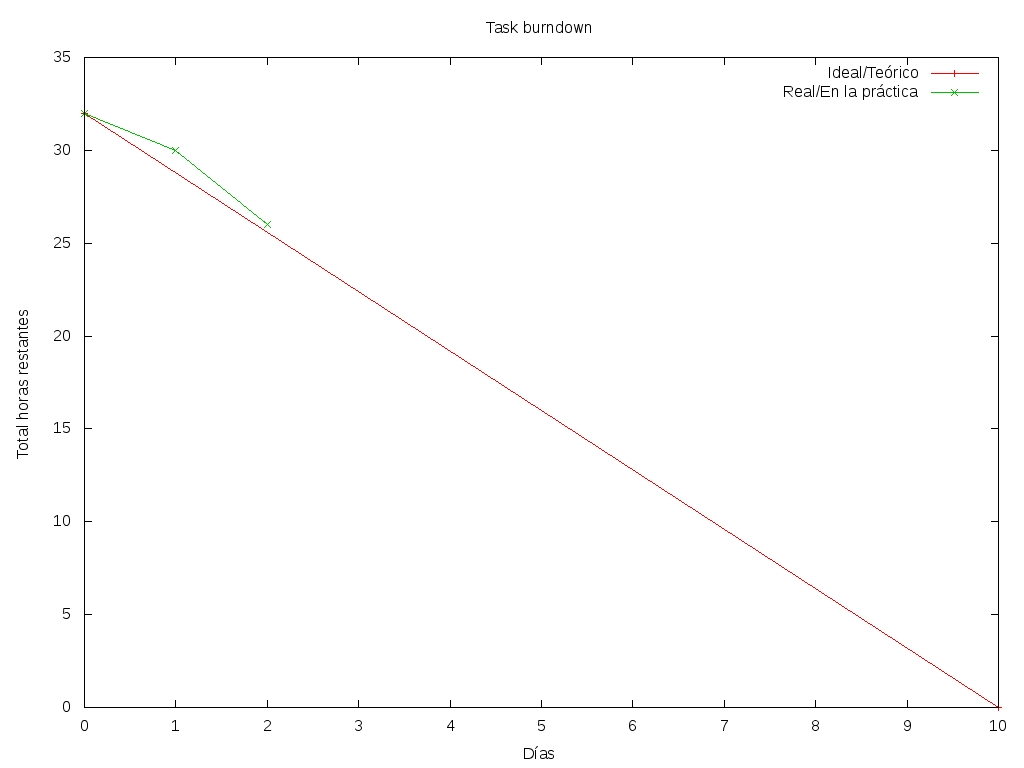
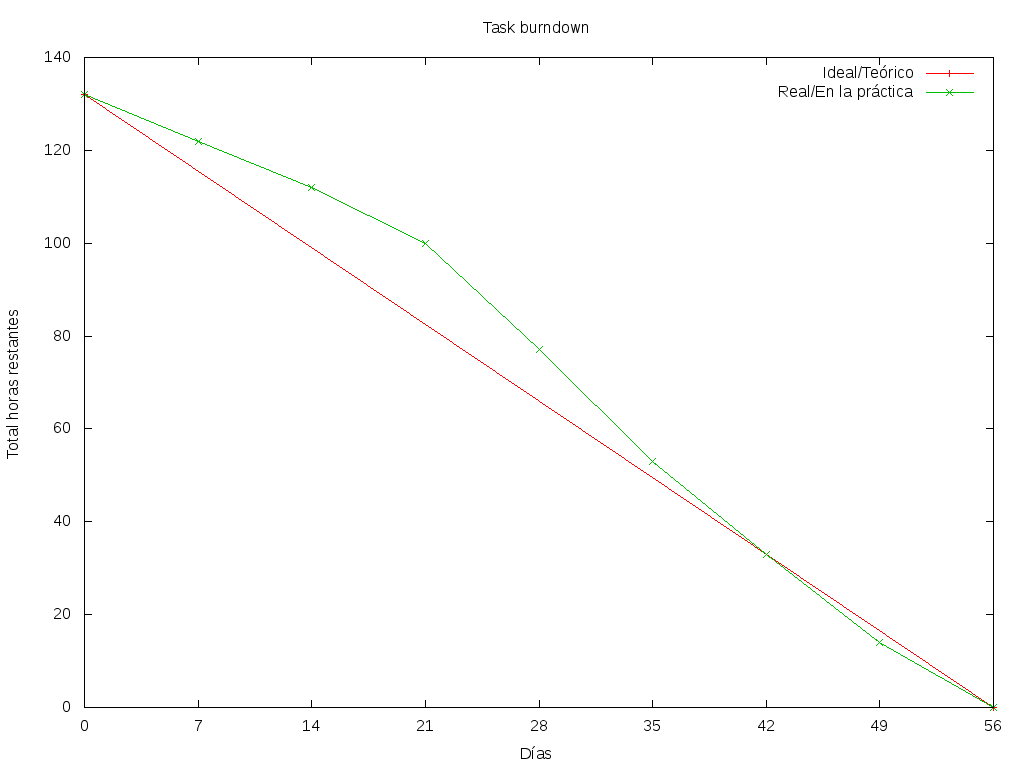
informe: Agregar seccion burndown charts con los graficos
Se agrega los graficos, su explicación y se los actualiza para reflejar
el estado actual del proyecto.

Tambien se agregan los pngs correspondientes para poder imprimir el TP
en computadoras que no tengan gnuplot.

diff --git a/INFORME.rst b/INFORME.rst
@@ -24,6 +24,10 @@ El informe está dividido en las siguientes secciones:
 - Sprint backlog: en esta sección se enumeran en forma más detallada un
   las funcionalidades esperadas en una primera iteración
 
+- Burndown charts: en esta sección se muestran el product burndown chart y el
+  sprint burndown chart mostrando el avance del proyecto y el sprint
+  respectivamente.
+
 - Diseño: en esta sección se presenta y justifica las principales decisiones de
   diseño tomadas
 
@@ -363,58 +367,50 @@ Status              Finished
 =================== ===================================================
 
 
-Sobre las stories y los sprints
-===============================
+Burndown Charts
+===============
 
-El proyecto se efectuará en 2 sprints. Para el primero, elegimos las stories #1 y #2,
-indicadas en la tabla anterior, las cuales son las de mayor importancia para el
-cliente. Ambas suman una cantidad de 16 story points (del total de 31).
+A continuación se muestra el task burndown correspondiente a este sprint,
+basado en las tareas y estimaciones previamente detalladas:
 
-El equipo prefirió no comprometerse e incluir ninguna story más del Product
-Backlog, para no establecer expectativas demasiado altas en el cliente, aunque,
-si el tiempo lo permite, se podría intentar el desarrollo de la story #3 antes de
-que finalice el sprint, de forma tal de completar las primeras 3 stories durante
-el mismo.
+.. image:: plot/burndown-sprint.png
+        :scale: 200
 
-Inicialmente, las stories incluidas en este sprint sólo abarcaban la
-funcionalidad para crear cuentas de usuario y que los usuarios registrados
-pudieran ingresar al sitio los datos necesarios para poder cumplir sus necesidades
-de transporte, o incluso, poner a disposición un auto propio, pero sin contemplar
-la posibilidad de organizar viajes a través del sistema.
+En este gráfico se puede apreciar el progreso en horas que se fue haciendo a lo
+largo del sprint, día a día. Se decidió agrupar por períodos de 7 días para una
+mejor visualización.
 
-Se consideró luego, que un hipotético P.O. se beneficiaría más al poder incluir
-al menos cierta funcionalidad básica de organización de viajes en este mismo release,
-de forma tal, de obtener un producto que pudiese ser lanzado a producción de
-manera inmediata.
+Se usaron 56 días en el eje "X" porque eso es lo que duró el primer sprint (la
+cantidad de días desde la presentación del TP hasta que se debe presentar la
+DEMO). Sobre el eje "Y", la cantidad total de horas se la calculó simplemente
+usando los valores previamente exlicados: 33 story points, donde cada uno se
+corresponde con 4hs, implica un total de 132 horas para los 33 story points.
 
-Adicionalmente, teniendo en cuenta que al agregar la story que producía los viajes
-óptimos para los datos ingresados por los usuarios, el sprint se volvería demasiado
-abultado y difícilmente podría cumplirse en el tiempo deseado, se decidió dividir
-las stories antiguas en otras algo más simples.
+Se puede ver como durante el principio del sprint se iba más atrasado del "avance
+teórico", y que llegando al final del sprint se pudo avanzar bastante, llegando a
+superar por un momento el "avance teórico" para esa etapa del proyecto.
 
-Primero, el alta de la cuenta del usuario se separó en una story propia, de forma
-tal que pueda ser desarrollada más adelante en otro sprint, aligerando la estimación
-de las stories incluídas. Dado este cambio, el sistema podría comenzar a funcionar,
-sin esta funcionalidad, en una etapa inicial donde la participación estaría cerrada
-a algunos usuarios ingresados en forma masiva a una base de datos o por pedido explícito
-por fuera del sistema.
+En el product burndown a continuación, se muestra el avance sobre la totalidad del
+proyecto:
 
-Luego se planteó que podrían satisfacerse las necesidades de los usuarios si estos
-pudiesen conocer cuales son las ofertas de autos disponibles que coinciden con sus
-horarios y destinos; luego ellos mismos podrían elegir cuál de las ofertas mostradas
-les resultarían preferibles.
-Se decidíó que la funcionalidad anterior podría comprender una story nueva, la cual
-no incluiría el requisito de registrar los datos de viaje del usuario en una base del
-sistema. Además, permitiría obtener al menos las ofertas filtradas según su correspondencia 
-con las necesidades del usuario. 
-También, se agregaría un requisito de investigar las estrategias posibles de matcheo entre
-pedidos y ofrecimientos que amortice el costo del desarrollo. 
-De esta forma, y como se aclaró antes, la story que incluye el algoritmo de matcheo, 
-tendría un esfuerzo menor.
+.. image:: plot/burndown-product.png
+        :scale: 200
 
-Satisfechos con esta nueva disposición de stories, decidimos incluir esta nueva story
-y la que permita registrar un auto para disposición del sistema (la de mayor
-importancia), e iniciar el primer sprint.
+
+Considerando que cada sprint dura 8 semanas (56 días) y que el equipo trabaja
+20hs por semana, el equipo puede avanzar 160hs por sprint. Dado que hay 132
+story points y que cada uno implica 4hs, se necesitan 528hs para terminar el
+proyecto. Esto implica un poco más de 3 sprints para finalizar el proyecto, y se
+decidió usar 4 en total por posibles errores en las estimaciones. Y para
+calcular la cantidad de story points totales, simplemente se sumó los story
+points de cada user story. 
+
+Se puede ver que actualmente está adelantado el proyecto comparando con el
+"avance teórico" esperado. Esto, posiblemente, se deba justamente por redondear
+para arriba la cantidad de sprints necesarios para el proyecto total, combinado
+con que quizás este sprint se lo estimó mejor. Posiblemente en futuros sprints
+hayan más sorpresas si no se estimaron muy bien las otras user stories.
+
 
 Diseño
 ======
@@ -459,3 +455,4 @@ el transporte necesario para ese viaje en particular. Luego, las
 ``JourneyStops``
 representan los puntos intermedios del viaje donde deben subir o bajar los distintos
 pasajeros, permitiendo que los viajes puedan ser diagramados con mucha flexibilidad.
+
